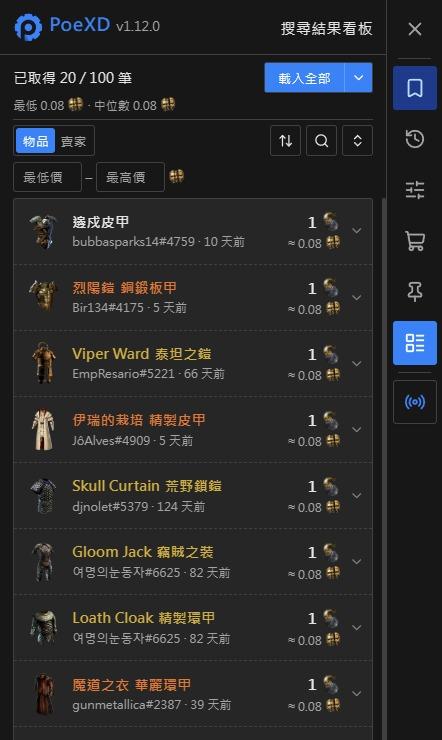
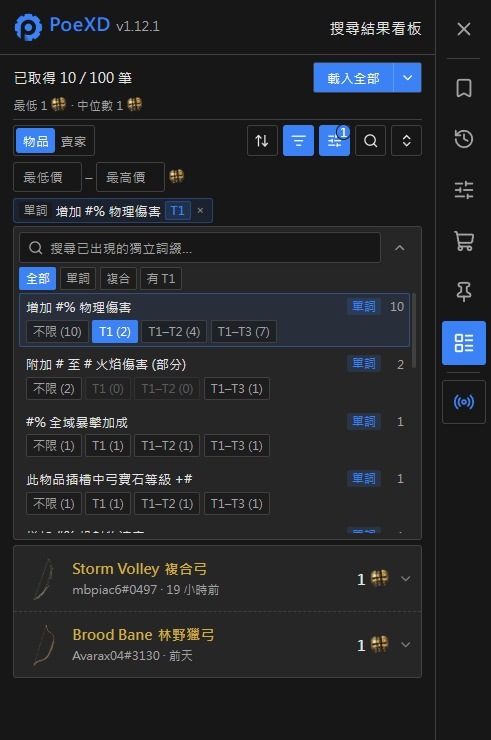
docs(poexd): update PoB gear view and result board mod filter screenshots

diff --git a/poexd/index.html b/poexd/index.html
@@ -266,19 +266,19 @@
     <section id="result-board">
       <span class="meta-code sec-num">07 / RESULT BOARD</span>
       <h2>搜尋結果看板</h2>
-      <p>在一般搜尋頁把目前取得的結果集中到側邊欄（從側邊欄分頁或官方結果數旁的「看板」按鈕開啟），不會改動官方結果列表。</p>
-      <ol class="steps">
-        <li><strong>物品清單</strong>：依關鍵字、價格區間、隱藏已售出與只看可直購篩選並排序，點一下即可捲動定位並高亮官方結果列；可直接前往藏身處或釘選。</li>
+      <p>在一般搜尋頁把目前取得的結果集中到側邊欄（從側邊欄分頁或官方結果數旁的「看板」按鈕開啟），預設不會改動官方結果列表，也可手動開啟同步過濾直接篩選官方列表。</p>
+      <ol class="steps">https://poe.ninja/zh-tw/poe1/builds/covens/character/ShairoNN-4081/Meowshiro#i=0&search=class%3DChieftain%26skills%3DRighteous%2BFire
+        <li><strong>物品清單與獨立詞綴篩選</strong>：依關鍵字、價格區間、隱藏已售出與只看可直購篩選並排序；可展開「必含獨立詞綴篩選」拆解結果中的單詞／複合詞綴（支援 <code>T1</code>、<code>T1–T2</code> 等階級與破裂／基底／工藝分類），並可一鍵同步過濾左側官方結果列，點一下即可捲動定位並高亮官方結果列。</li>
         <li><strong>賣家清單與倉庫分組</strong>：依可直購件數與換算總價排序，找出能在同一間藏身處一次買齊多件的賣家，並依倉庫分頁分組標出格位座標。</li>
         <li><strong>倉庫搜尋 regex</strong>：勾選同一賣家要買的物品後顯示小計，一鍵複製 <code>regex</code> 貼進對方倉庫搜尋框，同時標出所有目標物品（無法區分時會提示警告）。</li>
         <li><strong>批次載入與自動重整</strong>：透過官方「載入更多」逐批（可記憶每次筆數）或一次載入全部（上限 100 筆）；前往藏身處連結過期時會自動重新整理再前往。</li>
       </ol>
       <div class="shot-pair is-portrait">
         <figure class="shot">
-          <button type="button" class="shot-btn" data-lightbox-src="../assets/poexd/result-board-items.jpg" data-lightbox-alt="搜尋結果看板的物品清單：列出本次搜尋取得的物品、換算價格與篩選排序控制" data-lightbox-caption="搜尋結果看板（物品清單）：集中篩選、排序並一鍵定位到官方結果列。">
-            <img src="../assets/poexd/result-board-items.jpg" width="442" height="740" alt="搜尋結果看板的物品清單：列出本次搜尋取得的物品、換算價格與篩選排序控制">
+          <button type="button" class="shot-btn" data-lightbox-src="../assets/poexd/result-board-items.jpg" data-lightbox-alt="搜尋結果看板的物品清單：展開必含獨立詞綴篩選（單詞／複合與 T 階條件），並開啟同步過濾左側官方列表" data-lightbox-caption="搜尋結果看板（物品清單）：依必含獨立詞綴與 T 階過濾結果，並可同步過濾官方列表。">
+            <img src="../assets/poexd/result-board-items.jpg" width="491" height="740" alt="搜尋結果看板的物品清單：展開必含獨立詞綴篩選（單詞／複合與 T 階條件），並開啟同步過濾左側官方列表">
           </button>
-          <figcaption><span>物品清單：集中篩選價格區間與批次載入。</span><span class="shot-zoom-hint">點擊放大</span></figcaption>
+          <figcaption><span>物品清單：獨立詞綴與 T 階篩選、同步過濾官方列表。</span><span class="shot-zoom-hint">點擊放大</span></figcaption>
         </figure>
         <figure class="shot">
           <button type="button" class="shot-btn" data-lightbox-src="../assets/poexd/result-board-sellers.jpg" data-lightbox-alt="搜尋結果看板的賣家清單：展開同一賣家的多件可直購物品，依倉庫分組並產生倉庫搜尋 regex" data-lightbox-caption="搜尋結果看板（賣家清單）：依倉庫分組並一鍵複製倉庫搜尋 regex 一次買齊。">
@@ -316,23 +316,23 @@
       <h2>PoB 購物清單</h2>
       <ol class="steps">
         <li>在工具列打開「PoB 購物清單」，貼上 <span class="nowrap">Path of Building</span> 匯出代碼，或 <code>poe.ninja</code>、<code>pobb.in</code>、<code>pastebin</code> 分享網址。</li>
-        <li>清單會依裝備、藥劑、珠寶與寶石分類整理，可同時保存多份 build；若 build 含多組裝備套裝或技能組，可從上方選單即時切換。</li>
-        <li>在彈出預覽可一鍵「改用總和詞綴」（抗性、生命、能力值）或將數值條件放寬 10%（<code>-10%</code>），微調後一鍵搜尋、加入書籤或直接送進線上搜尋主控台。</li>
+        <li>預設以「裝備欄」紙娃娃視圖呈現角色裝備、武器組切換（<code>I / II</code>）、藥劑、星團與珠寶、插槽連線與寶石圖示（支援 <span class="nowrap">PoE 1 / PoE 2</span>，可切換為「清單」視圖）；可同時保存多份 build，並在多組裝備套裝或技能組間即時切換。</li>
+        <li>可針對整份 build 調整「整體搜尋設定」（詞綴數值下限比例、連結條件、稀有裝改依類別＋防禦類型搜尋、防禦下限與預設改用總和詞綴），或在單件預覽微調條件、放寬 10%（<code>-10%</code>）後一鍵搜尋、加入書籤、送進線上搜尋主控台，或將目前頁面搜尋存回該欄位。</li>
       </ol>
       <div class="note"><p>從 <code>pobb.in</code>、<code>pastebin</code> 匯入需要另外授權存取該網站。代碼只存在你的瀏覽器，不會上傳。開啟市集漢化並授權 <code>pobb.in</code> 後，<code>pobb.in</code> 分享頁也會自動顯示中文。</p></div>
 
       <div class="shot-pair is-portrait">
         <figure class="shot">
-          <button type="button" class="shot-btn" data-lightbox-src="../assets/poexd/pob.jpg" data-lightbox-alt="PoB 購物清單：Slayer build 的裝備套裝與技能組切換選單，下方依欄位列出裝備" data-lightbox-caption="PoB 購物清單：切換裝備套裝與技能組，依欄位列出裝備。">
-            <img src="../assets/poexd/pob.jpg" width="338" height="640" alt="PoB 購物清單：Slayer build 的裝備套裝與技能組切換選單，下方依欄位列出裝備">
+          <button type="button" class="shot-btn" data-lightbox-src="../assets/poexd/pob.jpg" data-lightbox-alt="PoB 購物清單的裝備欄視圖：以角色紙娃娃排列武器、防具、藥劑、星團珠寶、珠寶與臟器，支援切換武器組與清單視圖" data-lightbox-caption="PoB 購物清單（裝備欄視圖）：以紙娃娃呈現裝備圖示、武器組切換、藥劑與珠寶。">
+            <img src="../assets/poexd/pob.jpg" width="491" height="840" alt="PoB 購物清單的裝備欄視圖：以角色紙娃娃排列武器、防具、藥劑、星團珠寶、珠寶與臟器，支援切換武器組與清單視圖">
           </button>
-          <figcaption><span>切換裝備套裝與技能組，依欄位列出裝備。</span><span class="shot-zoom-hint">點擊放大</span></figcaption>
+          <figcaption><span>裝備欄視圖：紙娃娃呈現裝備、武器組、藥劑與珠寶。</span><span class="shot-zoom-hint">點擊放大</span></figcaption>
         </figure>
         <figure class="shot">
-          <button type="button" class="shot-btn" data-lightbox-src="../assets/poexd/pob-gems.jpg" data-lightbox-alt="PoB 購物清單的寶石區：依裝備欄位分組，列出每顆寶石的等級與品質" data-lightbox-caption="PoB 寶石清單：依所在裝備欄位分組，標出等級與品質。">
-            <img src="../assets/poexd/pob-gems.jpg" width="338" height="702" alt="PoB 購物清單的寶石區：依裝備欄位分組，列出每顆寶石的等級與品質">
+          <button type="button" class="shot-btn" data-lightbox-src="../assets/poexd/pob-gems.jpg" data-lightbox-alt="PoB 購物清單的寶石區：依裝備欄位分組，顯示寶石圖示、需求數量與等級品質" data-lightbox-caption="PoB 寶石清單：依所在裝備欄位分組，顯示寶石圖示、等級與品質。">
+            <img src="../assets/poexd/pob-gems.jpg" width="491" height="840" alt="PoB 購物清單的寶石區：依裝備欄位分組，顯示寶石圖示、需求數量與等級品質">
           </button>
-          <figcaption><span>寶石依所在欄位分組，標出等級與品質。</span><span class="shot-zoom-hint">點擊放大</span></figcaption>
+          <figcaption><span>寶石依所在欄位分組，顯示圖示、等級與品質。</span><span class="shot-zoom-hint">點擊放大</span></figcaption>
         </figure>
       </div>
     </section>
